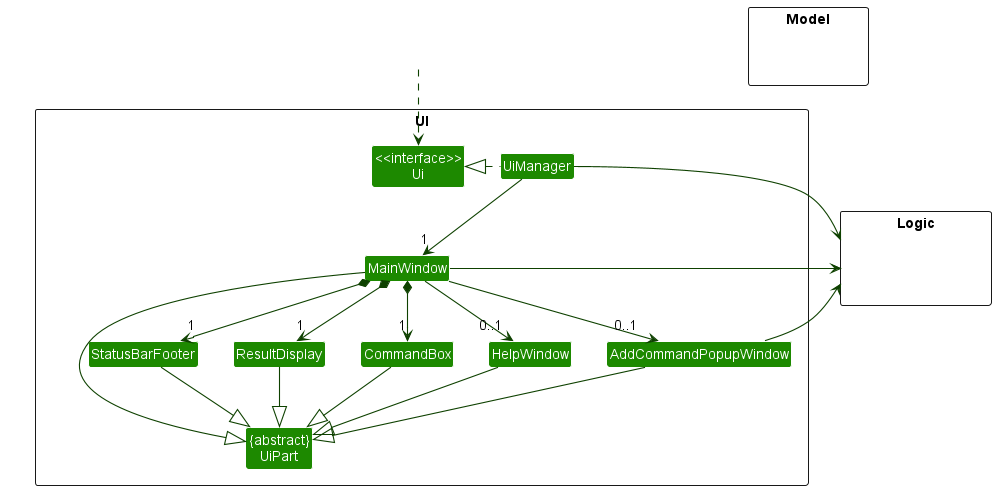
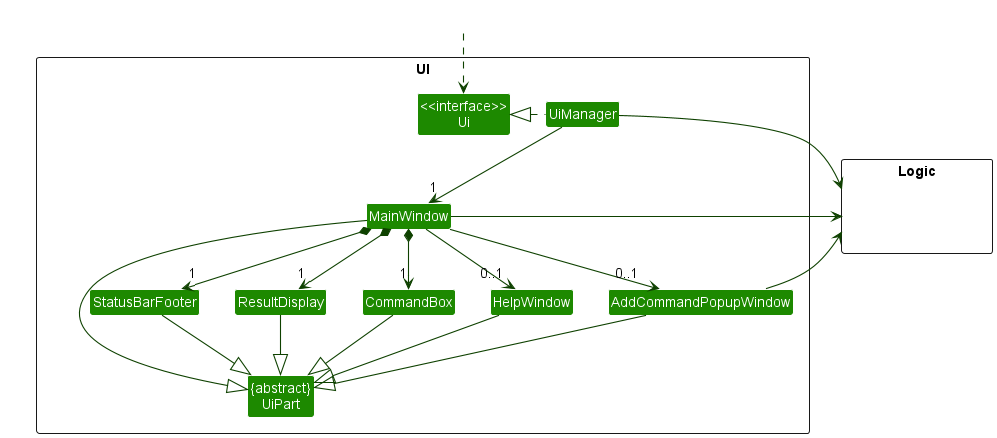
Update the developer guide for ui

diff --git a/docs/DeveloperGuide.md b/docs/DeveloperGuide.md
@@ -71,9 +71,22 @@ The sections below give more details of each component.
 
 The **API** of this component is specified in [`Ui.java`](https://github.com/se-edu/addressbook-level3/tree/master/src/main/java/seedu/address/ui/Ui.java)
 
-![Structure of the UI Component](images/UiClassDiagram.png)
+Given below is a partial class diagram of the `Ui` component.
 
-The UI consists of a `MainWindow` that is made up of parts e.g.`CommandBox`, `ResultDisplay`, `PersonListPanel`, `StatusBarFooter` etc. All these, including the `MainWindow`, inherit from the abstract `UiPart` class which captures the commonalities between classes that represent parts of the visible GUI.
+<img src="images/UiClassDiagram.png" width="600"/>
+
+The UI consists of a `MainWindow` that is made up of parts including `CommandBox`, `ResultDisplay`, `StatusBarFooter`.
+The `mainWindow` also has `HelpWindow` and `AddCommandPopupWindow` that will be shown to the user when required.
+Detailed implementation of the `AddCommandPopupWindow` is written [here](#pop-up-window-for-add-command).
+All these, including the `MainWindow`, inherit from the abstract `UiPart` class which captures the commonalities between classes that represent parts of the visible GUI.
+
+Furthermore, the `MainWindow` has different list panels such as `BuyerListPanel` and `PetListPanel` as shown below.
+List panels are used to fill the `MainWindow` for display. Which list panel is displayed depends on the input `Command`.
+Each list panel can have any number of the corresponding card. For example, `BuyerListPanel` can have any number of `BuyerCard`.
+All the list panels and cards inherit from the abstract `UiPart`, but **not shown** in the diagram below to reduce graph complexity.
+Detailed implementation of the list panel can be found [here](#display-of-person-list).
+
+<img src="images/UiClassDiagram1.png" width="600"/>
 
 The `UI` component uses the JavaFx UI framework. The layout of these UI parts are defined in matching `.fxml` files that are in the `src/main/resources/view` folder. For example, the layout of the [`MainWindow`](https://github.com/se-edu/addressbook-level3/tree/master/src/main/java/seedu/address/ui/MainWindow.java) is specified in [`MainWindow.fxml`](https://github.com/se-edu/addressbook-level3/tree/master/src/main/resources/view/MainWindow.fxml)
 
@@ -254,7 +267,7 @@ We regard a string as a base 26 number (`'a'` - `'z'`). Every time the least sig
 
 For efficiency, the ID generator is implemented by a `List` of `char`, which avoids frequent string copying and concatenating. `List` facilitates fast in-place edit of a single `char` at a single index as well.
 
-### Display  of person list
+### Display of person list
 Initially, there is only one `PersonListPanel` that displays the person list in the ui. However, our product classifies `Person` into three different categories -- `Buyer`, `Supplier`, and `Deliverer`. Therefore, it is necessary to have a separate list panel for each of these three type of `Person`.
 
 In addition, buyers, suppliers and deliverers have comprehensive details on the orders or pets that they possess, besides their contact information. A `PersonCard` with only `Label` of JavaFX will display information in a very unorganised and lengthy way, which is not helpful in helping the user obtain information quickly. Therefore, the ui needs to be optimised for the situation where there is plentiful information that the user wants to know about a single `Person`.
@@ -281,6 +294,8 @@ By modifying the `PersonCard` to the three types of cards stated above, divided 
 
 Given below is a scenario that shows how the new ui responds to a `ListCommand`.
 // TODO: add description here
+
+### Pop-up window for add command
 
 --------------------------------------------------------------------------------------------------------------------
 
